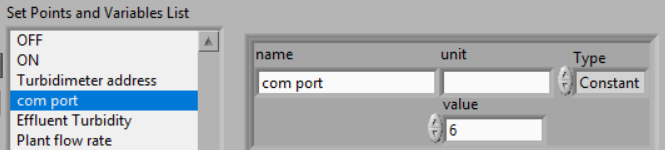
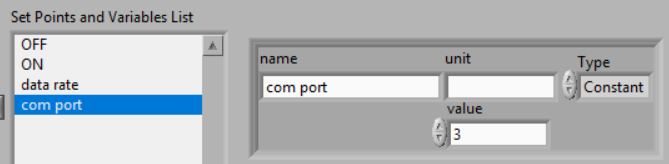
Golander pump directions

Changed region(s): [[0.0, 0.1867, 0.9925, 1.0], [0.0, 0.0267, 0.3008, 0.16], [0.6617, 0.32, 0.7218, 0.4]]

diff --git a/ProCoDA/ProCoDA.rst b/ProCoDA/ProCoDA.rst
@@ -451,12 +451,6 @@ Logic, States, and Outputs |config_edit_rules|
 
 ProCoDA's ability to quickly set up a state machine is all contained inside the rule editor.
 
-
-.. _heading_ProCoDA_Rule_Editor:
-
-Rule Editor
------------
-
 .. |Rules_Filter_logic| image:: Images/Rules_Filter_logic.png
 
 The programming environment for creating rules that determine exit conditions for states and which state to go to readily facilitates setting up the algorithms for controlling simple repetitive processes such as a sequencing batch reactors or rapid sand filters. For experimental purposes it is desirable to have the capability to systematically vary a parameter to test the performance of the process over a range of input values. This is accomplished via an external code that compares the number of specified replicates to a parameter that increments when the ProCoDA enters a specified state. The output parameter can be used to control pump speeds, times, or can be an input to subsequent calculations.
@@ -475,6 +469,7 @@ Set Points
 .. |SetPoints_pump_tubing_ID| image:: Images/SetPoints_pump_tubing_ID.png
 .. |SetPoints_select_HF_modbus_rtu| image:: Images/SetPoints_select_HF_modbus_rtu.png
 .. |SetPoints_turbidimeter| image:: Images/SetPoints_turbidimeter.png
+.. |SetPoints_turbidimeter_datarate| image:: Images/SetPoints_turbidimeter_datarate.png
 .. |SetPoints_turbidimeter_address| image:: Images/SetPoints_turbidimeter_address.png
 .. |SetPoints_turbidimeter_com_port| image:: Images/SetPoints_turbidimeter_com_port.png
 .. |SetPoints_filter_example| image:: Images/SetPoints_filter_example.png
@@ -502,6 +497,7 @@ Meters and Modbus
 .. |HF_mode_exit| image:: Images/HF_mode_exit.png
 .. |HF_return| image:: Images/HF_return.png
 .. |Device_manager_USB_com| image:: Images/Device_manager_USB_com.png
+.. |config_set_modbus_ID| image:: Images/config_set_modbus_ID.png
 .. |Modbus_ID| image:: Images/MB_Set_ID.png
 
 
@@ -512,49 +508,60 @@ ProCoDA connects to a Modbus network through either a serial port or a USB port 
 Tips for Modbus success!
 ^^^^^^^^^^^^^^^^^^^^^^^^
 
- * Make sure all devices that are connected to the Modbus network are turned on! Otherwise the entire network will fail.
- * When changing the unit ID on a device it is always best practice to turn the device off and back on again to ensure that it has switched to the new unit ID.
- * Make sure that all devices have unique unit IDs.
+ * Make sure all devices that are connected to the Modbus network are turned on (have power)! Otherwise the entire network will fail.
+ * When changing the unit ID on a device it is necessary to turn the device off and back on again to ensure that it has switched to the new unit ID.
+ * Make sure that all devices have unique unit IDs. (Double check this!!!)
  * Use the |Modbus_ID| to see which com ports are available to know how to correctly select the com port number for configuring the Modbus communication.
  * Make sure that the communication protocol for all devices is
    * Even Parity (default on Golander pumps, not default on HF turbidimeters - in the extended configuration)
    * 9600 Baud
+   * Modbus RTU (not ASCII)
 
 Connect an HF scientific MicroTol turbidimeter
 ^^^^^^^^^^^^^^^^^^^^^^^^^^^^^^^^^^^^^^^^^^^^^^
 
- #. Edit Rules
- #. Add a set point for the data rate (the time interval that ProCoDA will request a turbidity update from the meter). 1 second would be very fast, 60 s would be slow.
+ #. Go to the Configuration tab and select |config_set_modbus_ID|
+ #. Select the serial port on |Modbus_ID| to see which com ports are available to know how to correctly select the com port number for configuring the Modbus communication. Select Exit to close the dialog.
+ #. Go to |config_edit_rules| on the Configuration tab.
+ #. Add a set point for the data rate (the time interval that ProCoDA will request a turbidity update from the meter). 1 second would be very fast, 60 s would be slow.|SetPoints_turbidimeter_datarate|
  #. Add a second setpoint for the com port on the computer that the turbidity meter is connected to. |SetPoints_turbidimeter_com_port|
- #. Use the windows Device manager to check which com ports are being used on your computer. In this example com port 6 is active. |Device_manager_USB_com|
+ #. Enter the com port number that you discovered in step 2.
  #. Add a third set point for the Turbidimeter address |SetPoints_turbidimeter_address|
  #. Check the unit ID on the turbidimeter (press |HF_mode_exit| twice to select the config option. Then press |HF_return| twice to select ADDR. You can adjust the unit ID using the up or down arrows. Press |HF_mode_exit| once more to exit and return to the turbidity view screen.)
  #. Add a fourth setpoint that will be the measured turbidity.
- #. Change the third setpoint from a constant to a variable
- #. Now more options will appear click on the folder which will open a window
- #. Click on HF modbus rtu (the communication protocol used by HF and many other devices) |SetPoints_select_HF_modbus_rtu|
+ #. Change the setpoint from a constant to a variable
+ #. Now more options will appear click on the folder icon which will open a dialog box
+ #. Select *Modbus devices* and then select *HF turbidimeter*
  #. Select the required set points. |SetPoints_code_inputs| If successful the turbidity displayed on the meter should show up as the value. If there is a communication error you will get a -999.
 
 Connect a Golander Peristaltic Pump
 ^^^^^^^^^^^^^^^^^^^^^^^^^^^^^^^^^^^
+
+.. |config_set_modbus_ID| image:: Images/config_set_modbus_ID.png
 .. |SetPoints_Golander| image:: Images/SetPoints_Golander.png
+.. |SetPoints_pump_address| image:: Images/SetPoints_pump_address.png
+.. |SetPoints_on_state| image:: Images/SetPoints_on_state.png
+
+
+The first step in setting up a pump is to calculate the required flow rate and then select the type of pump head (Easy-Load or 6 roller Ismatec) and the tubing size. For Easy-Load L/S Masterflex pump heads the recommended tubing sizes and corresponding range of flow rates are given below. Note that the #13 tubing is NOT recommended because the Easy-Load pump heads don't create a seal with this small tubing. There are usually many viable solutions for tubing size. The Golander pumps have a minimum of 0.1 rpm and the maximum rpm is a function of the pump model.
+The Ismatec pump heads are useful for dosing coagulant, clay, fluoride, acid, base, etc. that are used to amend the properties of a primary flow that is pumped with an Easy-Load pump head.
 
 .. _table_ProCoDA_pump_tubing:
 
 .. csv-table:: Pump tubing selection.
-    :header:  ,Tubing Size , 13 , 14 , 16 , 17 , 18
+    :header:  ,Tubing Size , 14 , 16 , 17 , 18
     :align: center
 
 
 
-    ,RPM/ID (mm) , 0.8 , 1.6 , 3 , 6.3 , 8
-    flow, 1, 0.0010 , 0.0035 , 0.0133 , 0.0467 , 0.0633
-    rate, 50, 0.0500 , 0.1750 , 0.6667 , 2.3333 , 3.1667
-    in, 100, 0.1000 , 0.3500 , 1.3333 , 4.6667 , 6.3333
-    mL/s, mL/rev, 0.06 , 0.21 , 0.80 , 2.8 , 3.8
+    ,RPM/ID (mm) ,  1.6 , 3 , 6.3 , 8
+    flow, 1,  0.0035 , 0.0133 , 0.0467 , 0.0633
+    rate, 50,  0.1750 , 0.6667 , 2.3333 , 3.1667
+    in, 100,  0.3500 , 1.3333 , 4.6667 , 6.3333
+    mL/s, mL/rev, 0.21 , 0.80 , 2.8 , 3.8
 
 A similar table is available for 3-stop tubing used on `Ismatec 6 roller pump heads <http://www.ismatec.com/int_e/pumps/t_mini_s_ms_ca/tubing_msca2.htm>`_.
-The volume per revolution can also be obtained using python.
+The volume per revolution can also be obtained using the following python code.
 
 .. code:: python
 
@@ -567,9 +574,39 @@ The volume per revolution can also be obtained using python.
   # or using the ID of the Tubing
   ac.vol_per_rev_3_stop(inner_diameter=0.12*u.mm)
 
+After selecting the pump head and tubing it is time to set up ProCoDA control of the pump.
 
-Change the Unit ID of a Modbus device
+Change the Unit ID of a Golander pump
 ^^^^^^^^^^^^^^^^^^^^^^^^^^^^^^^^^^^^^
+The model BT50S Golander pumps do not have the ability to change the unit ID using the controls on the pump. The unit ID is set instead using ProCoDA. Changing the unit ID is a little complicated because we start with the assumption that we don't know the unit ID of the device that we want to set. The method that Modbus provides for this case is to broadcast a command to ALL DEVICES telling them to change their unit ID. But, of course, this would be a bad idea if there are multiple devices listening because we don't want all of the devices to have the same unit ID! The solution is to disconnect all of the other Modbus devices by unplugging their cables. After the cables are disconnected
+
+ #. Disconnect all other Modbus devices (unplug their cables) so that ProCoDA is only communicating with ONE DEVICE! This is important because the command to change the address is broadcast to all devices on the Modbus network.
+ #. Open |config_set_modbus_ID| on the Configuration tab.
+ #. Select the serial port that is connected to the Modbus network
+ #. Select the Unit ID that you would like for the one device that is connected to the Modbus network
+ #. Hit Set device ID and Exit!
+ #. Turn off the device and turn it back on again!!!!!!! This is REQUIRED because otherwise the change you made won't be implemented by the device and communication will fail!
+ #. Golander 50S pumps display the unit ID on startup.
+
+Now you can configure a Golander pump using the Rule Editor. The external code for Golander pumps require 5 inputs: com port, pump address, on state, pump (ml/rev), and flow (mL/s).
+
+ #. Go to the Configuration tab and select |config_set_modbus_ID|
+ #. Select the serial port on |Modbus_ID| to see which com ports are available to know how to correctly select the com port number for configuring the Modbus communication. Select Exit to close the dialog.
+ #. Add a set point for the com port |SetPoints_turbidimeter_com_port|
+ #. Add a set point for the pump ID (or pump address) |SetPoints_pump_address|
+ #. Add a set point for the states that you want the pump to run |SetPoints_on_state|. The states are identified as integers with the OFF state having a value of 0. To have the pump run in more than one state simple enter the digits. The assumption here is that ProCoDA won't have more than 10 states. Thus the on state 134 means that the pump should run in states 1, 3, and 4.
+ #. Add a set point for the volume of water pumped per revolution with unis of mL/rev.
+ #. Add a set point for the desired flow rate with units of mL/s.
+ #. Add a set point for the pump control
+ #. Change the setpoint from a constant to a variable
+ #. Now more options will appear click on the folder icon which will open a dialog box
+ #. Select *Modbus devices* and then select *Golander pump(mL per s, mL per rev)*
+ #. Select the required set points
+
+Note that the pump control is the pump rpm. The pump control will only display the correct rpm if ProCoDA is in one of the states that you have defined as an on state. Otherwise the pump control will be 0. If you want the pump to turn in a counterclockwise direction, simple set the flow rate to have a negative value.
+
+Below is an example of a ProCoDA method that has 3 pumps and two turbidimeters. The set points are defined in an order that makes it easy to select them in the right order for each pump and turbidity meter and yet keeps the list neatly organized.
+|SetPoints_Golander|
 
 
 Increment functions
@@ -634,7 +671,7 @@ Outputs
 
 The ProCoDA hardware is designed and fabricated around an NI USB data acquisition board is used for on/off control of up to six devices and for variable control of up to two peristaltic pumps. The on/off devices are controlled with 24 V outputs that can be used to control solenoid valves, pinch valves, relays, or other low current devices.
 
-Connecting a pump that is controlled through pump 0 or pump 1 ports.
+Connecting a pump that is controlled through pump 0 or pump 1 ports using a 4-20 mA control system. Masterflex pumps can be controlled using this system.
 
 There are many ways to connect a pump, I am going to stick to one pump head because it is easier and adding more is fairly straight-forward. I will also be doing it with the code that uses mL/s and tubing ID, but you can use the other codes just make sure that you have the required set points
   #. Add a constant set point with the flow in mL/s |SetPoints_pump_flow_rate|
